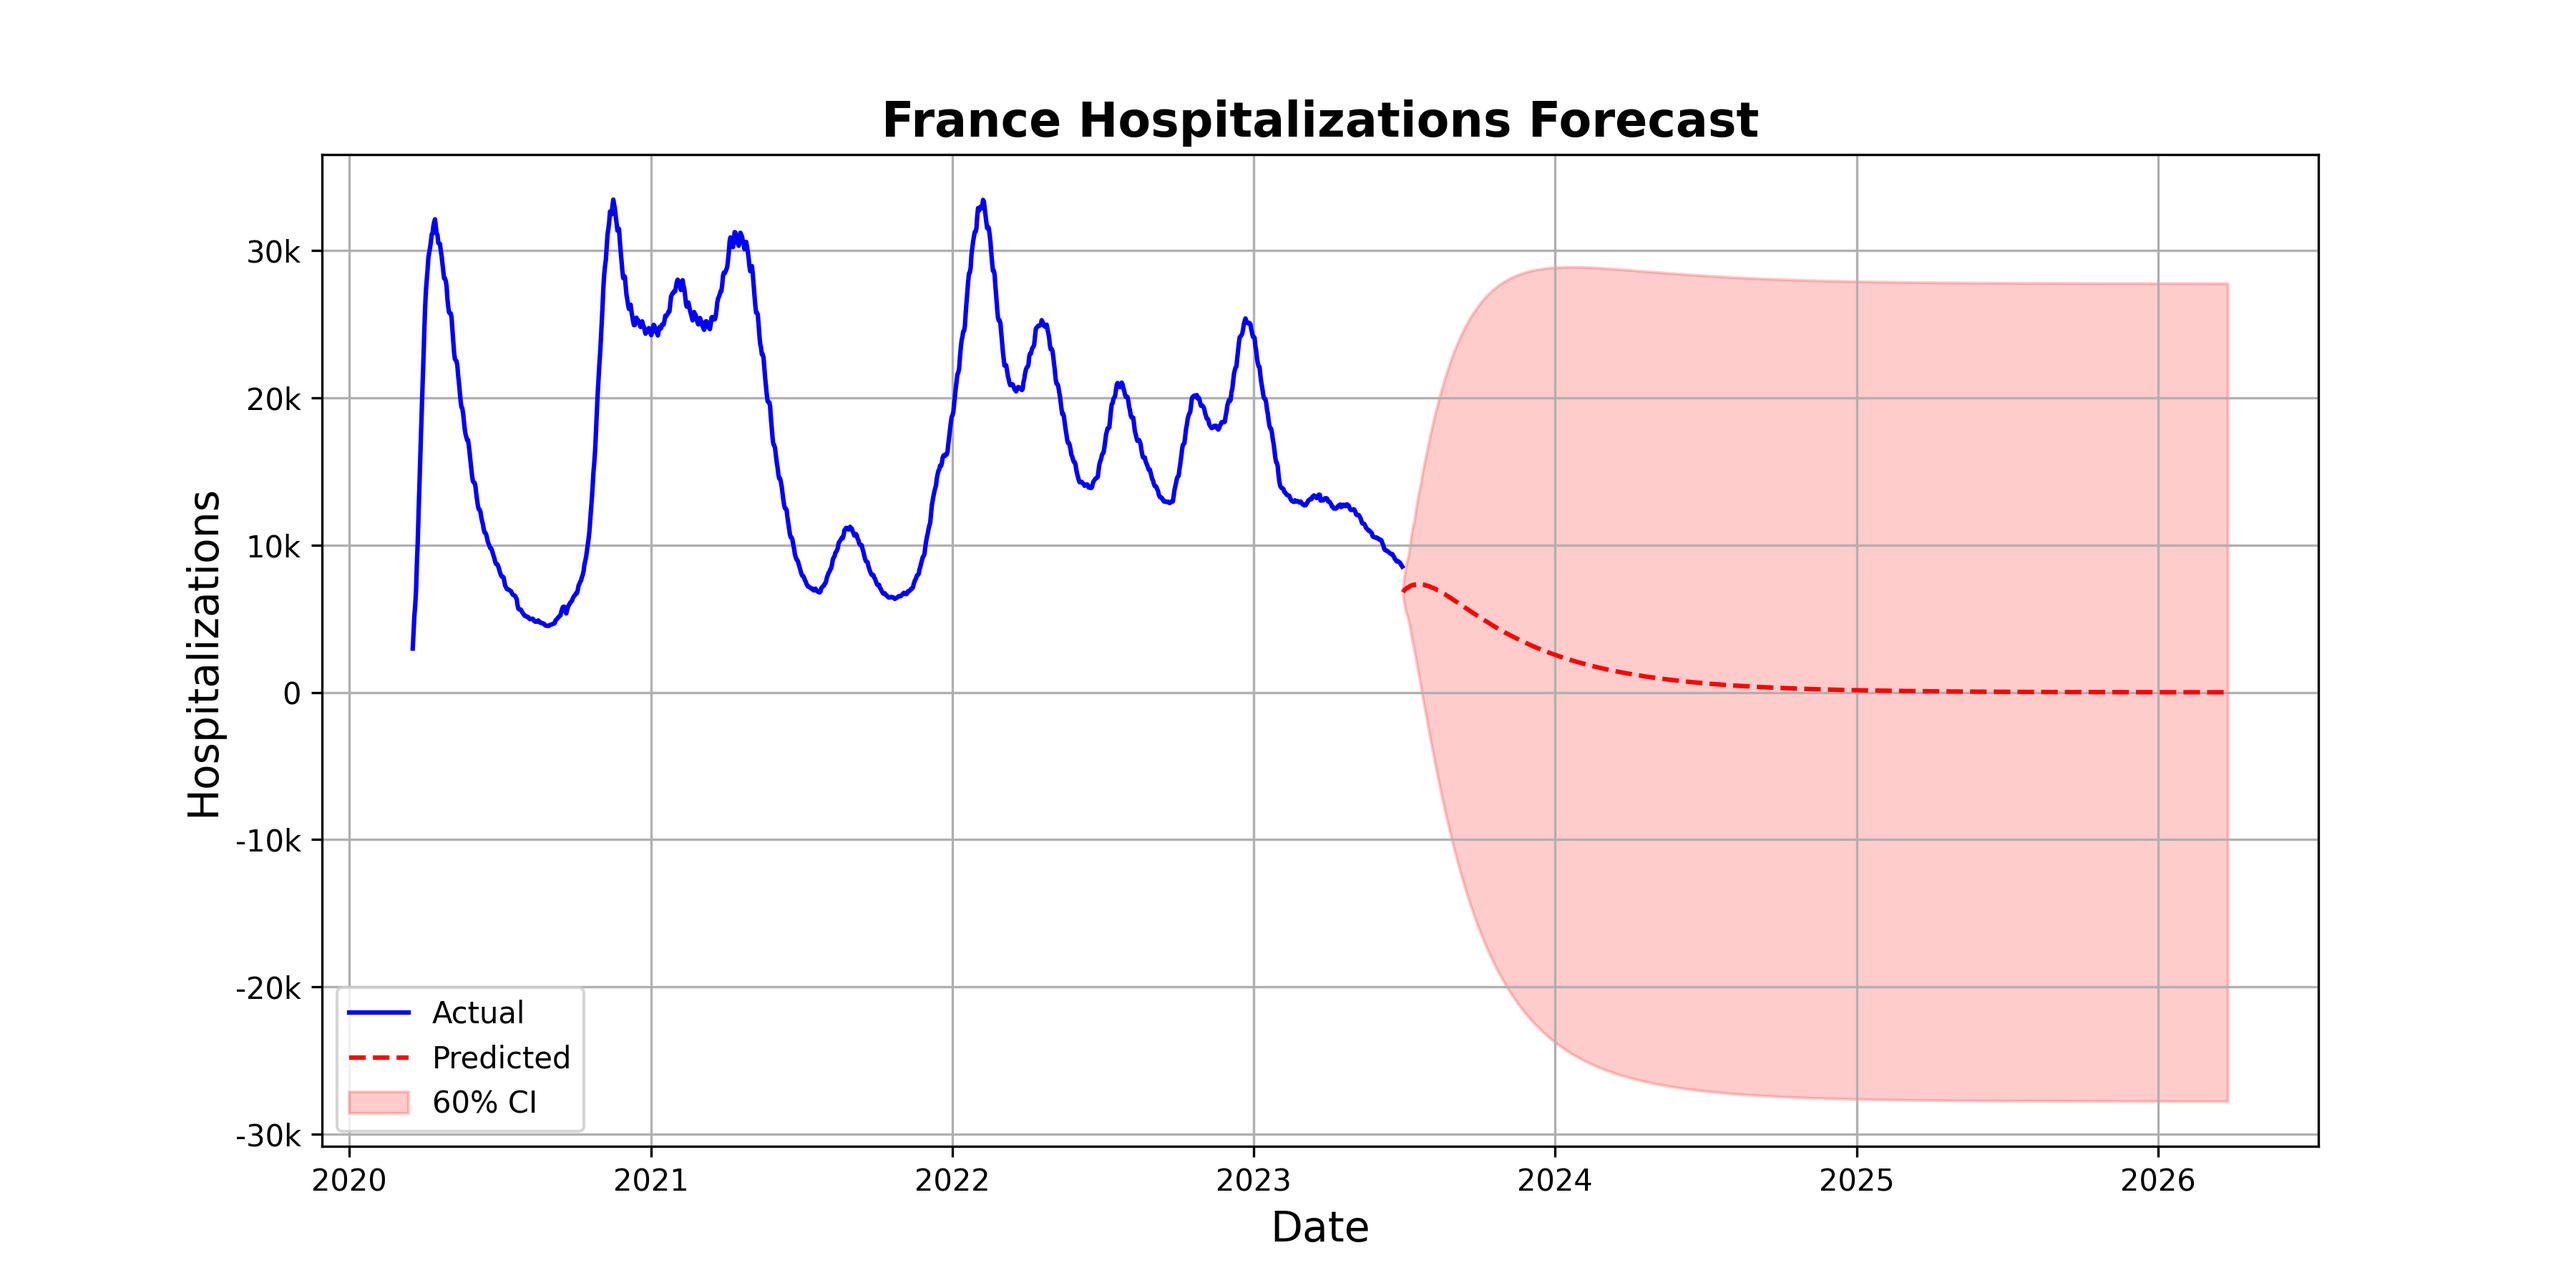
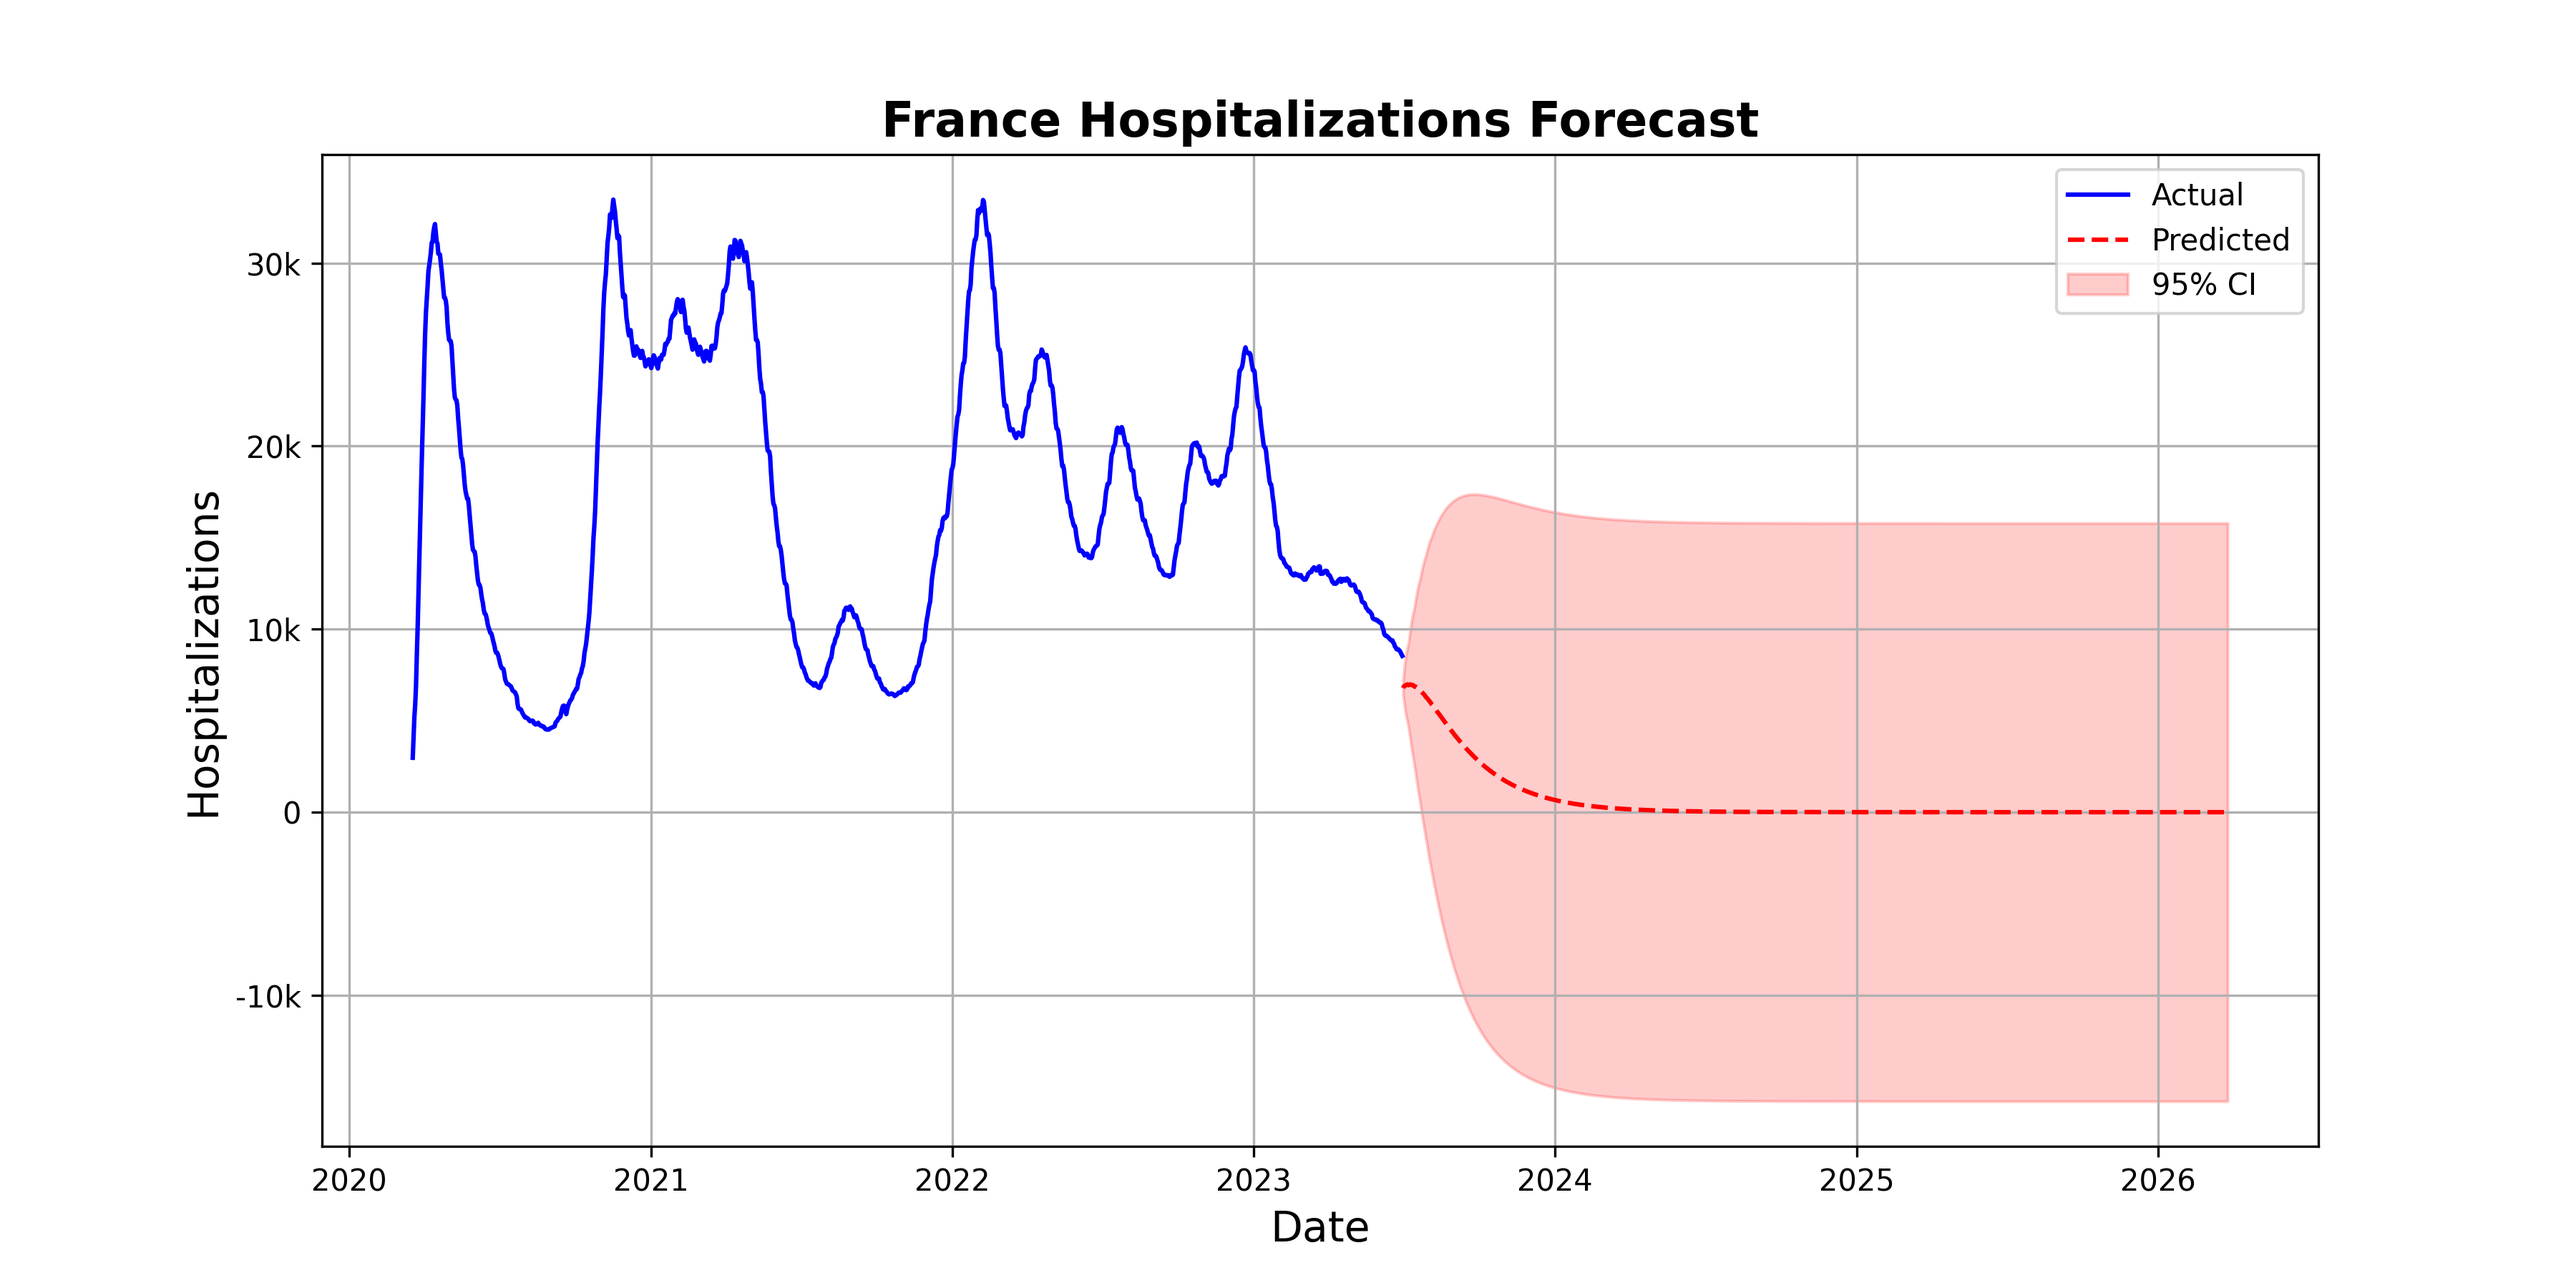
forecast update

diff --git a/scripts/daily_hosp_forecast.py b/scripts/daily_hosp_forecast.py
@@ -40,7 +40,7 @@ def main():
     model_fit = model.fit()
 
     # Model forecasting with confidence intervals
-    forecast_result = model_fit.get_forecast(steps=1000, alpha=0.05)
+    forecast_result = model_fit.get_forecast(steps=1000)
     predictions = forecast_result.predicted_mean
     conf_int = forecast_result.conf_int()
     
@@ -58,7 +58,7 @@ def main():
     # Confidence interval shading
     lower = conf_int.iloc[:, 0]
     upper = conf_int.iloc[:, 1]
-    plt.fill_between(future_dates, lower, upper, color='red', alpha=0.2, label='60% CI')
+    plt.fill_between(future_dates, lower, upper, color='red', alpha=0.2, label='95% CI')
 
     plt.title('France Hospitalizations Forecast', fontsize=16, weight ='bold')
     plt.xlabel('Date', fontsize=14)
